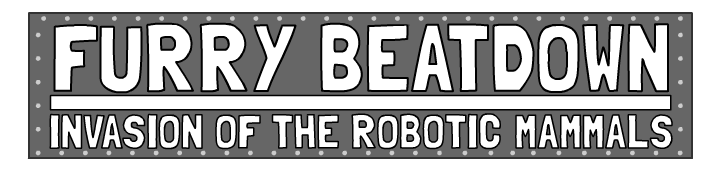
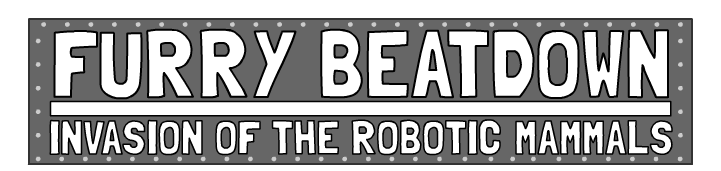
Header
Changed images.

diff --git a/index.html b/index.html
@@ -15,11 +15,11 @@
 		<div id="container">
 			<div id="headerContainer">
 				<div id="nameContainer">
-					<a href="./index.html"><img src="./images/fox_test_sm_bg-4.png" alt="image"/></a>
+					<a href="./index.html"><img src="./images/headerLeft.png" alt="image"/></a>
 				</div> <!-- end of header -->
 				<div class="linkContainer">
 					<div class="imgContainer">
-						<img src="./images/banner_sm-8.png"/>
+						<img src="./images/headerTitle.png"/>
 					</div>
 					<ul class="nav">
 						<li><a href="index.html">Home</a></li>
